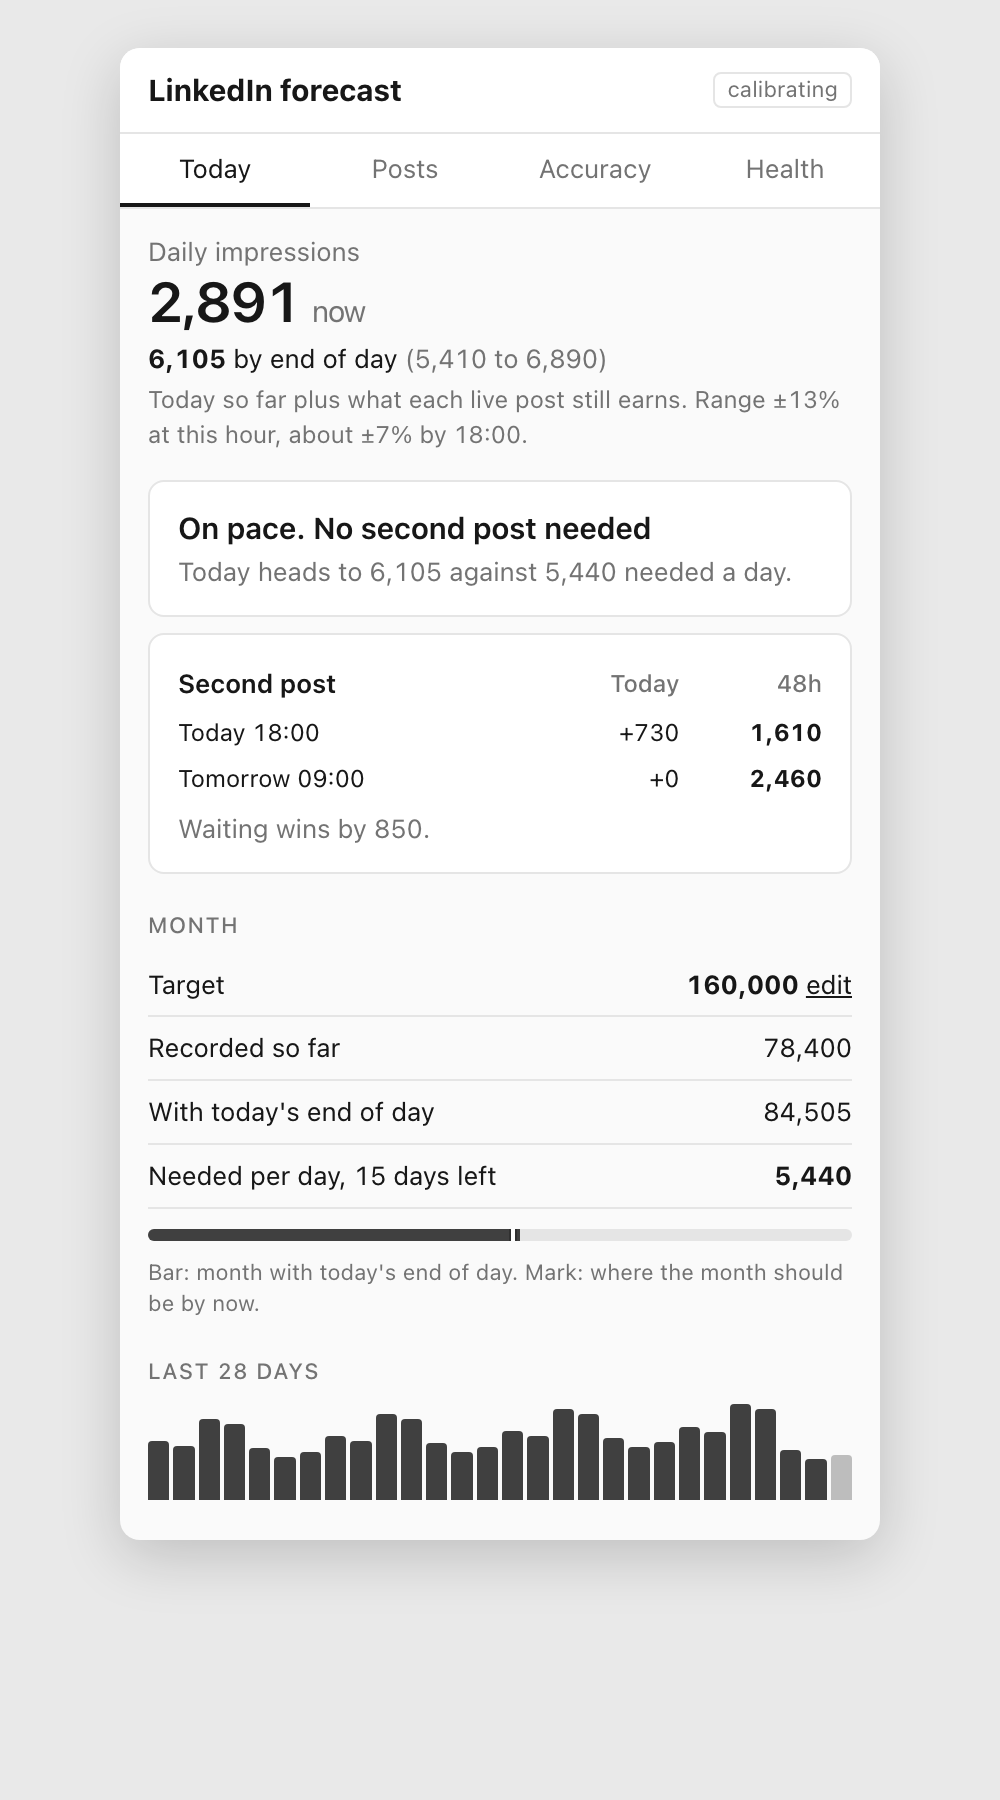
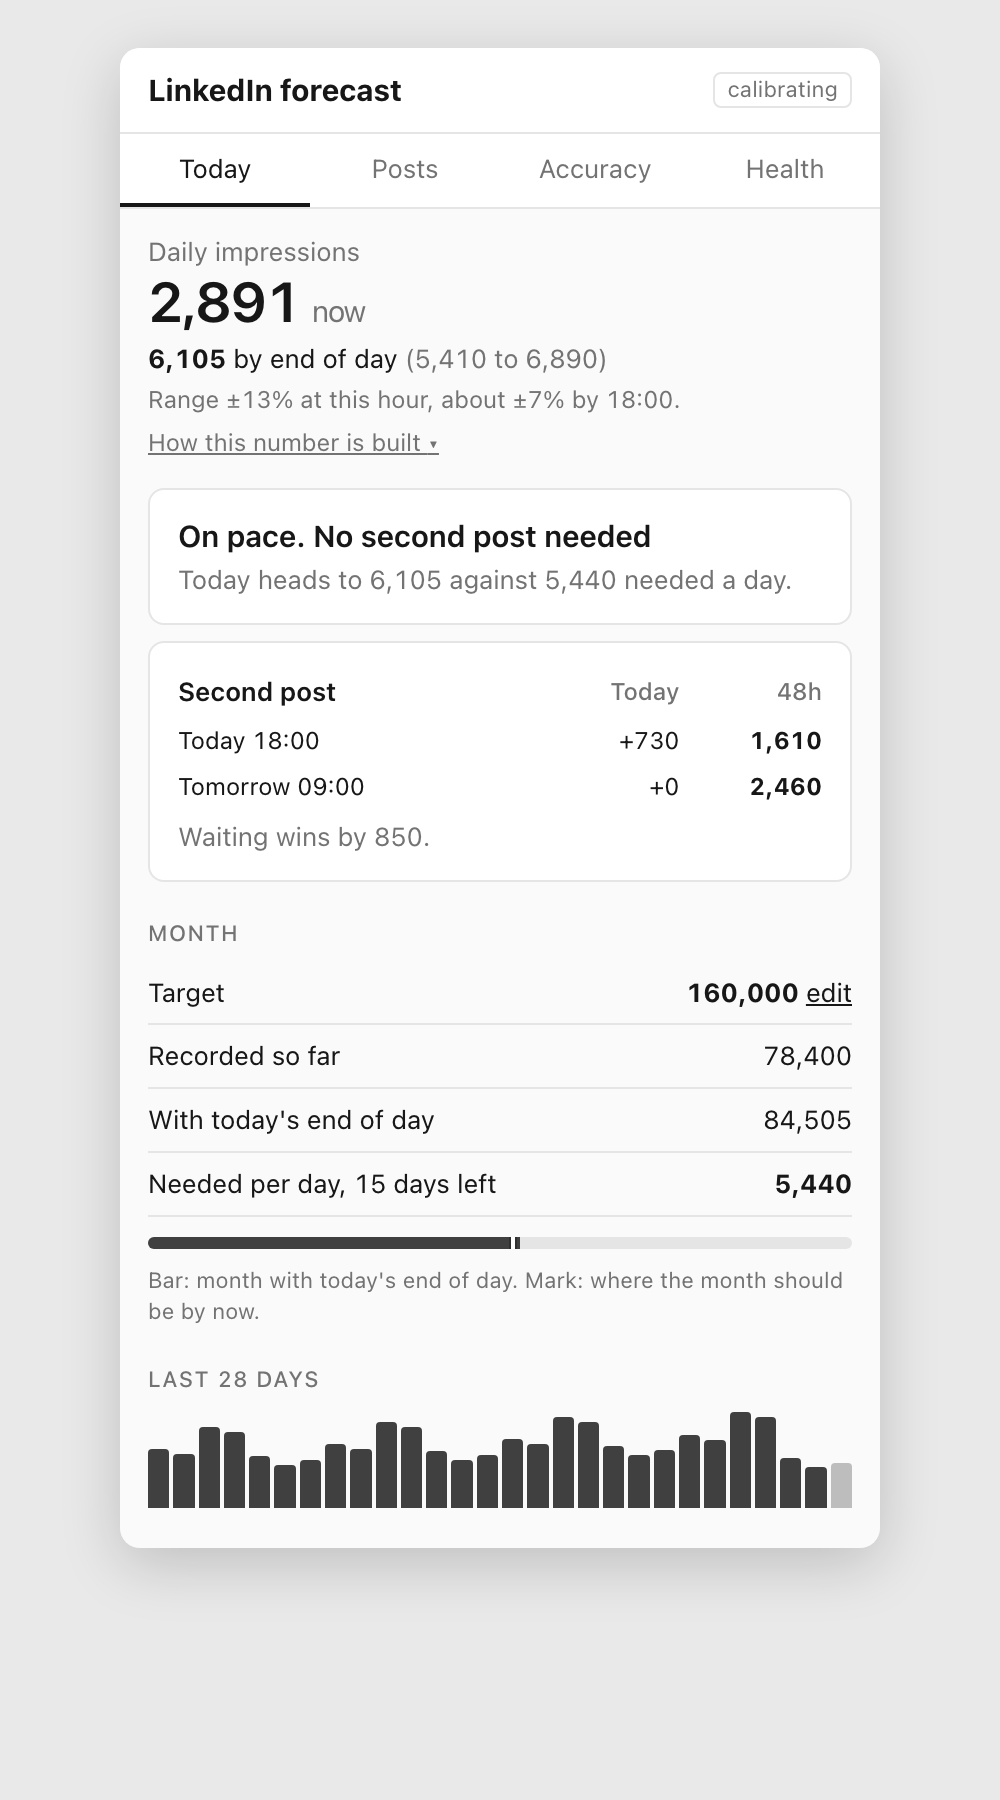
Day forecast: curve shifted to today's first post, blended with a posts estimate anchored on each post's own count; breakdown shows both

diff --git a/src/background/engine.ts b/src/background/engine.ts
@@ -11,7 +11,7 @@ import {
 } from './store';
 import { getModel, getOnboarding, getSettings, setModel, setOnboarding, timezone } from './state';
 import {
-  dailyEod, dayAhead, evalTail, interp, learnDay, learnDow, learnPost, median, mean, postByHoursBeforeMidnight, postEod, initialModel, secondPostAdd as secondPostAddFn, postTimingScenario, measuredDaySd, priorDaySd,
+  dailyEod, dayAhead, evalTail, interp, learnDay, learnDow, learnPost, median, mean, postByHoursBeforeMidnight, postEod, initialModel, secondPostAdd as secondPostAddFn, postTimingScenario, measuredDaySd, priorDaySd, shareAt, shiftSDay,
   recentTotalsOrLifetime, regimeOf, shiftSDay, typeFactor, MODEL_VERSION, pace as paceOf,
 } from '../model/simple';
 import { resolvePublishedAt } from '../model/urn';
@@ -374,10 +374,20 @@ export async function computeDayView(now = new Date()): Promise<DayForecastView>
     return m ? { sd: m.sd, measured: true } : { sd: priorDaySd(Math.max(interp(model.sDay, uu), 0.02)), measured: false };
   };
   const here = sdFor(u);
-  const curve = dailyEod(u, dn.value, { sDay: model.sDay, sd: here.sd });
-  // Bottom-up: today's count so far plus what each live post still earns before UTC midnight,
-  // using each post's real publish time. The day curve alone assumes the main post went out
-  // at the account's usual hour, which understates late posts.
+  const start0 = new Date(today + 'T00:00:00Z').getTime();
+  const todaysPosts = (await allPosts()).filter(p => { const t = new Date(p.publishedAt).getTime(); return t >= start0 && t <= now.getTime(); });
+  // Top-down: the day curve, shifted to when today's first post actually went out (the prior
+  // assumes 07:30 UTC; a 13:00 post makes the same count mean a much younger day).
+  let sDayToday = model.sDay;
+  if (todaysPosts.length) {
+    const firstHour = Math.min(...todaysPosts.map(p => utcHourOf(p.publishedAt)));
+    const usual = Math.min(...Object.keys(model.sDay).map(Number)) + 1.5; // first key + 1.5h ≈ the curve's implied post hour
+    if (firstHour - usual > 1) sDayToday = shiftSDay(model.sDay, 7.5 + (firstHour - usual));
+  }
+  const curveShare = Math.max(interp(sDayToday, u), 0.02);
+  const curve = dailyEod(u, dn.value, { sDay: sDayToday, sd: here.sd });
+  // Bottom-up: today's count plus what each live post still earns before UTC midnight, anchored
+  // on each post's own count (no pull toward the account median once 3h of data exist).
   let remaining = 0, liveN = 0;
   const breakdown: DayForecastView['breakdown'] = [];
   const hToMid = 24 - u;
@@ -385,23 +395,28 @@ export async function computeDayView(now = new Date()): Promise<DayForecastView>
     const v = await computePostView(p.urn, undefined, now);
     if (!v) continue;
     liveN++;
-    let r = Math.max(v.point - v.impressions, 0);
+    let r: number;
     let capped = false;
-    // Past the 24h mark the curve's tail is an assumption; the post's own measured rate is not.
-    if (v.hours > 24 && v.gainPerHour !== undefined) {
-      const byRate = Math.max(v.gainPerHour, 0) * hToMid;
-      if (byRate < r) { r = byRate; capped = true; }
+    if (v.hours > 24) {
+      r = Math.max(v.point - v.impressions, 0);
+      if (v.gainPerHour !== undefined) { const byRate = Math.max(v.gainPerHour, 0) * hToMid; if (byRate < r) { r = byRate; capped = true; } }
+    } else {
+      const sNow = shareAt(model.sPost, v.hours);
+      const scale = v.hours >= 3 ? v.impressions / sNow : (v.total24 ?? v.impressions / sNow);
+      r = Math.max(0, (shareAt(model.sPost, v.hours + hToMid) - sNow) * scale);
     }
     remaining += r;
     breakdown.push({ urn: p.urn, label: (p.textPreview ?? `Post from ${fmtLocalTime(p.publishedAt, tz)}`).replace(/\s+/g, ' ').slice(0, 40), hours: v.hours, remaining: r, capped });
   }
   breakdown.sort((a, b) => b.remaining - a.remaining);
   const usePosts = liveN > 0 && dn.source !== 'none';
-  const point = usePosts ? dn.value + remaining : curve.point;
+  // Blend in log space. The more of the day the curve has seen, the more it counts.
+  const wc = usePosts ? Math.min(0.9, Math.max(0.35, curveShare)) : 1;
+  const postsPoint = dn.value + remaining;
+  const point = usePosts && postsPoint > 0 ? Math.exp(wc * Math.log(Math.max(curve.point, 1)) + (1 - wc) * Math.log(postsPoint)) : curve.point;
   const f = { point, low: point * Math.exp(-1.28 * here.sd), high: point * Math.exp(1.28 * here.sd), share: curve.share };
-  const offsetH = tzOffsetMinutes(now, tz) / 60;
-  const rangeByHour = [8, 10, 12, 14, 16, 18, 20, 22].map(localH => ({ localHour: localH, pct: Math.exp(1.28 * sdFor(((localH - offsetH) % 24 + 24) % 24).sd) - 1 }));
-  const rangeDays = new Set(pairs.map(p => Math.round(p.actual))).size;
+  breakdown.unshift({ urn: '', label: `Day curve${sDayToday !== model.sDay ? ', shifted to today\'s first post' : ''}`, hours: -1, remaining: curve.point, capped: false });
+  breakdown.push({ urn: '', label: 'Posts method total', hours: -2, remaining: postsPoint, capped: false });
   const pace = await paceFor(settings, model, today);
   const start = new Date(today + 'T00:00:00Z').getTime();
   const posts = (await allPosts()).filter(p => new Date(p.publishedAt).getTime() >= start && new Date(p.publishedAt).getTime() <= now.getTime());

diff --git a/docs/demo/mock.js b/docs/demo/mock.js
@@ -4,7 +4,7 @@
   const day = i => new Date(today.getTime() - i * 86400000).toISOString().slice(0, 10);
   const daily = [4009, 5706, 2741, 3459, 11324, 10797, 6328];
   const history = daily.map((v, i) => ({ utcDate: day(7 - i), impressions: v, today: false })).concat([{ utcDate: day(0), impressions: 2891, today: true }]);
-  const dayView = { utcDate: day(0), u: 14.2, dailyNow: 2891, dailyNowSource: 'analytics', early: false, point: 6105, low: 5410, high: 6890, pace: 5200, fromTodayPosts: 1017, fromTails: 1874, regime: 'calibrating', postByLocal: '12:12', rangePct: 0.13, rangeSource: 'measured', rangeDays: 14, method: 'posts', breakdown: [{ urn: '7505901697601384448', label: 'The third cohort kicked off last Friday.', hours: 2.7, remaining: 1190, capped: false }, { urn: '7505801697601384448', label: 'I use a payment app as my laundry timer.', hours: 6.1, remaining: 768, capped: false }, { urn: '7505701697601384448', label: 'Some of you have never named a file', hours: 13.7, remaining: 56, capped: false }, { urn: '75055', label: 'Yesterday\'s post about offsites', hours: 31, remaining: 1200, capped: true }], rangeByHour: [[8,0.62],[10,0.41],[12,0.27],[14,0.16],[16,0.11],[18,0.07],[20,0.05],[22,0.03]].map(([localHour,pct])=>({localHour,pct})) };
+  const dayView = { utcDate: day(0), u: 14.2, dailyNow: 2891, dailyNowSource: 'analytics', early: false, point: 6105, low: 5410, high: 6890, pace: 5200, fromTodayPosts: 1017, fromTails: 1874, regime: 'calibrating', postByLocal: '12:12', rangePct: 0.13, rangeSource: 'measured', rangeDays: 14, method: 'posts', breakdown: [{ urn: '', label: 'Day curve', hours: -1, remaining: 5560, capped: false }, { urn: '7505901697601384448', label: 'The third cohort kicked off last Friday.', hours: 2.7, remaining: 1190, capped: false }, { urn: '7505801697601384448', label: 'I use a payment app as my laundry timer.', hours: 6.1, remaining: 768, capped: false }, { urn: '7505701697601384448', label: 'Some of you have never named a file', hours: 13.7, remaining: 56, capped: false }, { urn: '75055', label: 'Yesterday\'s post about offsites', hours: 31, remaining: 1200, capped: true }, { urn: '', label: 'Posts method total', hours: -2, remaining: 6105, capped: false }], rangeByHour: [[8,0.62],[10,0.41],[12,0.27],[14,0.16],[16,0.11],[18,0.07],[20,0.05],[22,0.03]].map(([localHour,pct])=>({localHour,pct})) };
   const S=[[0.5,0.1],[1,0.18],[2,0.3],[3,0.4],[4,0.48],[5,0.56],[6,0.63],[8,0.74],[10,0.82],[12,0.87],[15,0.92],[18,0.95],[21,0.98],[24,1]];
   const shape=h=>{ if(h<=0.5) return 0.1*h/0.5; for(let i=1;i<S.length;i++){ if(h<=S[i][0]){const [a,va]=S[i-1],[b,vb]=S[i]; return va+(vb-va)*(h-a)/(b-a);} } return 1; };
   const post = (urn, publishedAt, hours, impressions, point, low, high, gain, status, text) => ({ urn, publishedAt, hours, impressions, point, low, high, gainPerHour: gain, tailMode: status === 'tail', status, textPreview: text, series: Array.from({ length: 8 }, (_, i) => { const h = hours * (i + 1) / 8; return [h, Math.round(impressions * shape(h) / shape(hours))]; }), regime: 'calibrating', type: 'image', observedAt: new Date().toISOString() });

diff --git a/src/ui/popup/main.tsx b/src/ui/popup/main.tsx
@@ -128,7 +128,7 @@ function RangeNote({ t }: { t: DayForecastView }) {
   const later = t.rangeByHour.filter(r => r.pct < t.rangePct * 0.6).sort((a, b) => a.localHour - b.localHour)[0];
   return (
     <div class="dim" style="font-size:12px; margin-top:2px" title={`${t.rangeSource === 'measured' ? `Measured from your last ${t.rangeDays} closed days` : 'Prior curve, not yet measured on your days'}. Detail in the Accuracy tab.`}>
-      {t.method === 'posts' ? 'Today so far plus what each live post still earns. ' : 'From the day curve, no live post read yet. '}Range ±{Math.round(t.rangePct * 100)}% at this hour{later ? `, about ±${Math.round(later.pct * 100)}% by ${String(later.localHour).padStart(2, '0')}:00` : ''}.
+      Range ±{Math.round(t.rangePct * 100)}% at this hour{later ? `, about ±${Math.round(later.pct * 100)}% by ${String(later.localHour).padStart(2, '0')}:00` : ''}.
     </div>
   );
 }
@@ -136,14 +136,19 @@ function RangeNote({ t }: { t: DayForecastView }) {
 /** Where the end-of-day number comes from: now plus each live post's remaining gain. */
 function Breakdown({ t }: { t: DayForecastView }) {
   const [open, setOpen] = useState(false);
-  const rem = t.breakdown.reduce((a, b) => a + b.remaining, 0);
+  const posts = t.breakdown.filter(b => b.hours >= 0);
+  const curve = t.breakdown.find(b => b.hours === -1);
+  const postsTotal = t.breakdown.find(b => b.hours === -2);
   return (
     <div style="font-size:12px; margin-top:4px">
-      <a href="#" class="dim" onClick={e => { e.preventDefault(); setOpen(!open); }}>{fmt(t.dailyNow)} now + {fmt(rem)} still to come from {t.breakdown.length} live post{t.breakdown.length === 1 ? '' : 's'} {open ? '▴' : '▾'}</a>
+      <a href="#" class="dim" onClick={e => { e.preventDefault(); setOpen(!open); }}>How this number is built {open ? '▴' : '▾'}</a>
       {open && (
         <table class="scn" style="margin-top:4px">
           <tbody>
-            {t.breakdown.map(b => <tr><td class="dim">{b.label} <span style="opacity:.7">· {b.hours < 24 ? b.hours.toFixed(1) + 'h' : Math.round(b.hours) + 'h'}</span></td><td class="n">+{fmt(b.remaining)}{b.capped ? <span title="Capped at the post's measured hourly rate times the hours left"> ·</span> : ''}</td></tr>)}
+            {curve && <tr><td>{curve.label}</td><td class="n"><b>{fmt(curve.remaining)}</b></td></tr>}
+            {postsTotal && <tr><td>Posts: {fmt(t.dailyNow)} now + what each still earns</td><td class="n"><b>{fmt(postsTotal.remaining)}</b></td></tr>}
+            {posts.map(b => <tr><td class="dim" style="padding-left:12px">{b.label} <span style="opacity:.7">· {b.hours < 24 ? b.hours.toFixed(1) + 'h' : Math.round(b.hours) + 'h'}</span></td><td class="n dim">+{fmt(b.remaining)}{b.capped ? <span title="Capped at the post's measured hourly rate times the hours left"> ·</span> : ''}</td></tr>)}
+            <tr><td>Blend, weighted by how much of the day the curve has seen</td><td class="n"><b>{fmt(t.point)}</b></td></tr>
           </tbody>
         </table>
       )}

diff --git a/src/content/overlay.ts b/src/content/overlay.ts
@@ -64,7 +64,7 @@ export async function mountDayOverlay(parent: Element, before: Element | null, o
   if (!resp || resp.enabled === false) { host.remove(); return; }
   const v = resp.view;
   if (!v || v.dailyNowSource === 'none') { render(host, 'Daily impressions: no reading for today yet', 'card'); return; }
-  let tip = `${v.method === 'posts' ? 'today so far plus each live post\'s remaining gain' : 'day curve'} · pace needs ${fmt(v.pace)} per day · 80% interval ${fmt(v.low)} to ${fmt(v.high)} · ${v.regime}`;
+  let tip = `${v.method === 'posts' ? 'day curve blended with live posts' : 'day curve'} · pace needs ${fmt(v.pace)} per day · 80% interval ${fmt(v.low)} to ${fmt(v.high)} · ${v.regime}`;
   // Match LinkedIn's selected window: N-1 completed days plus today (as many as were captured).
   const hist = (resp.history ?? []).slice(-days);
   const eodDaily = v.early || !Number.isFinite(v.point) ? 0 : v.point;
